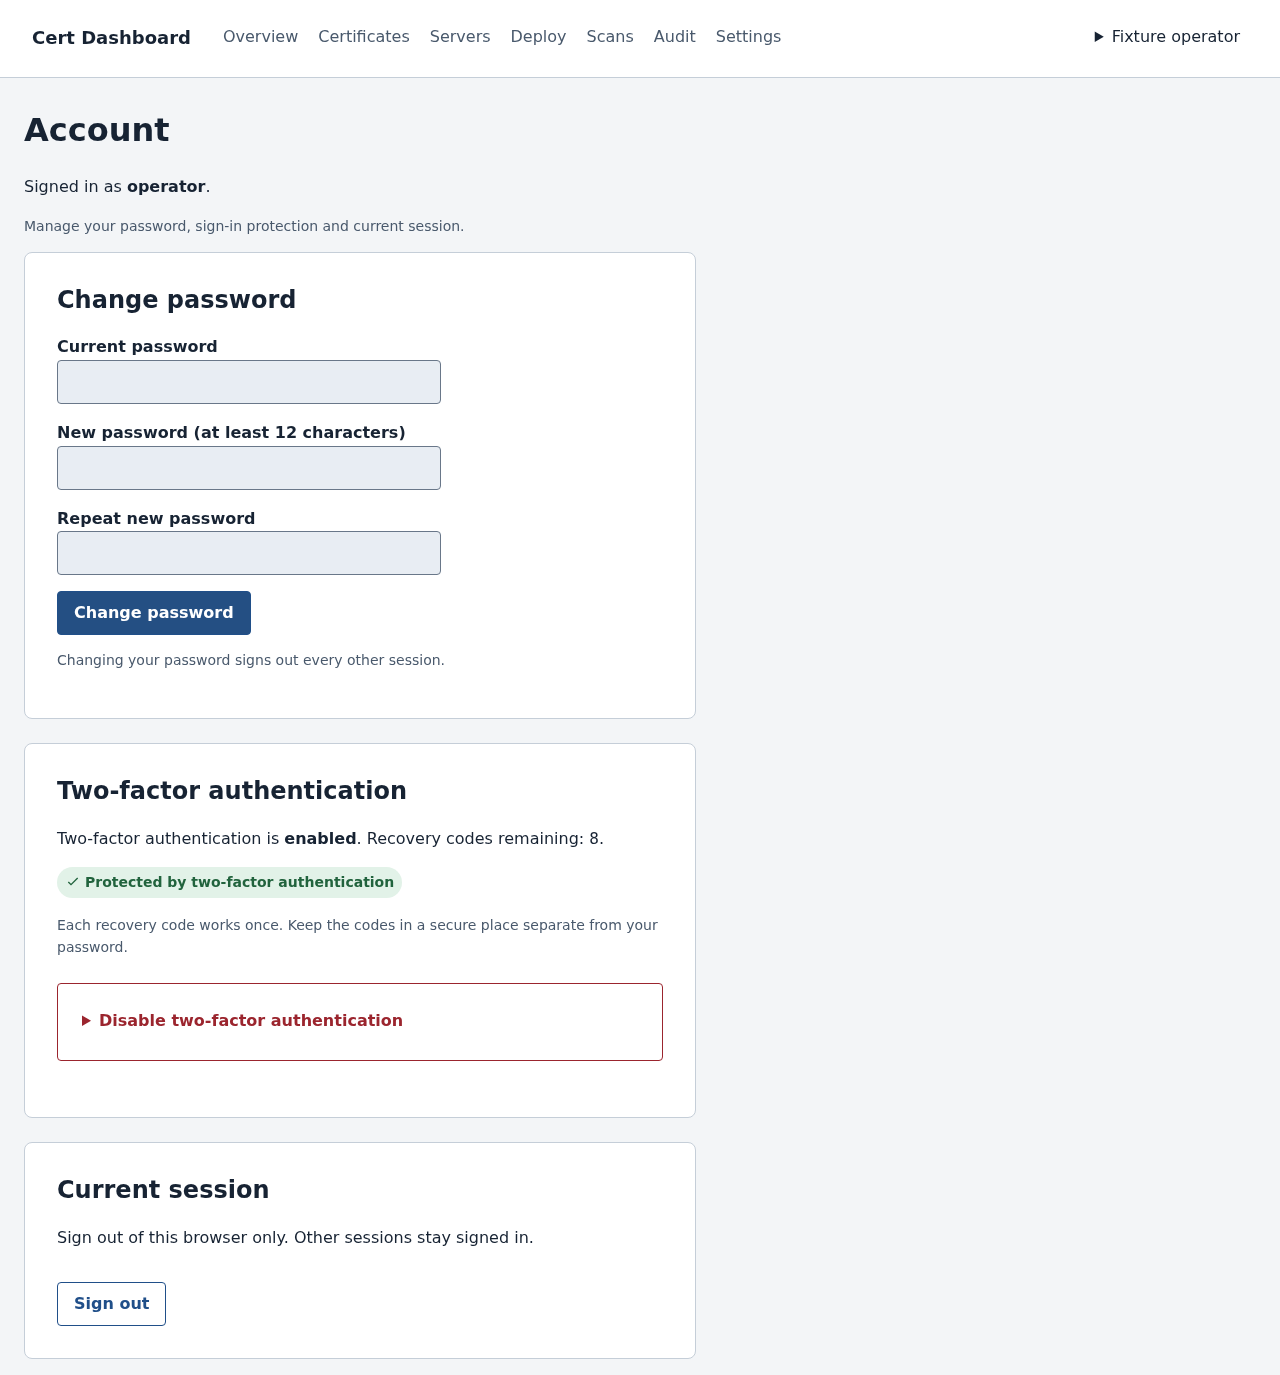
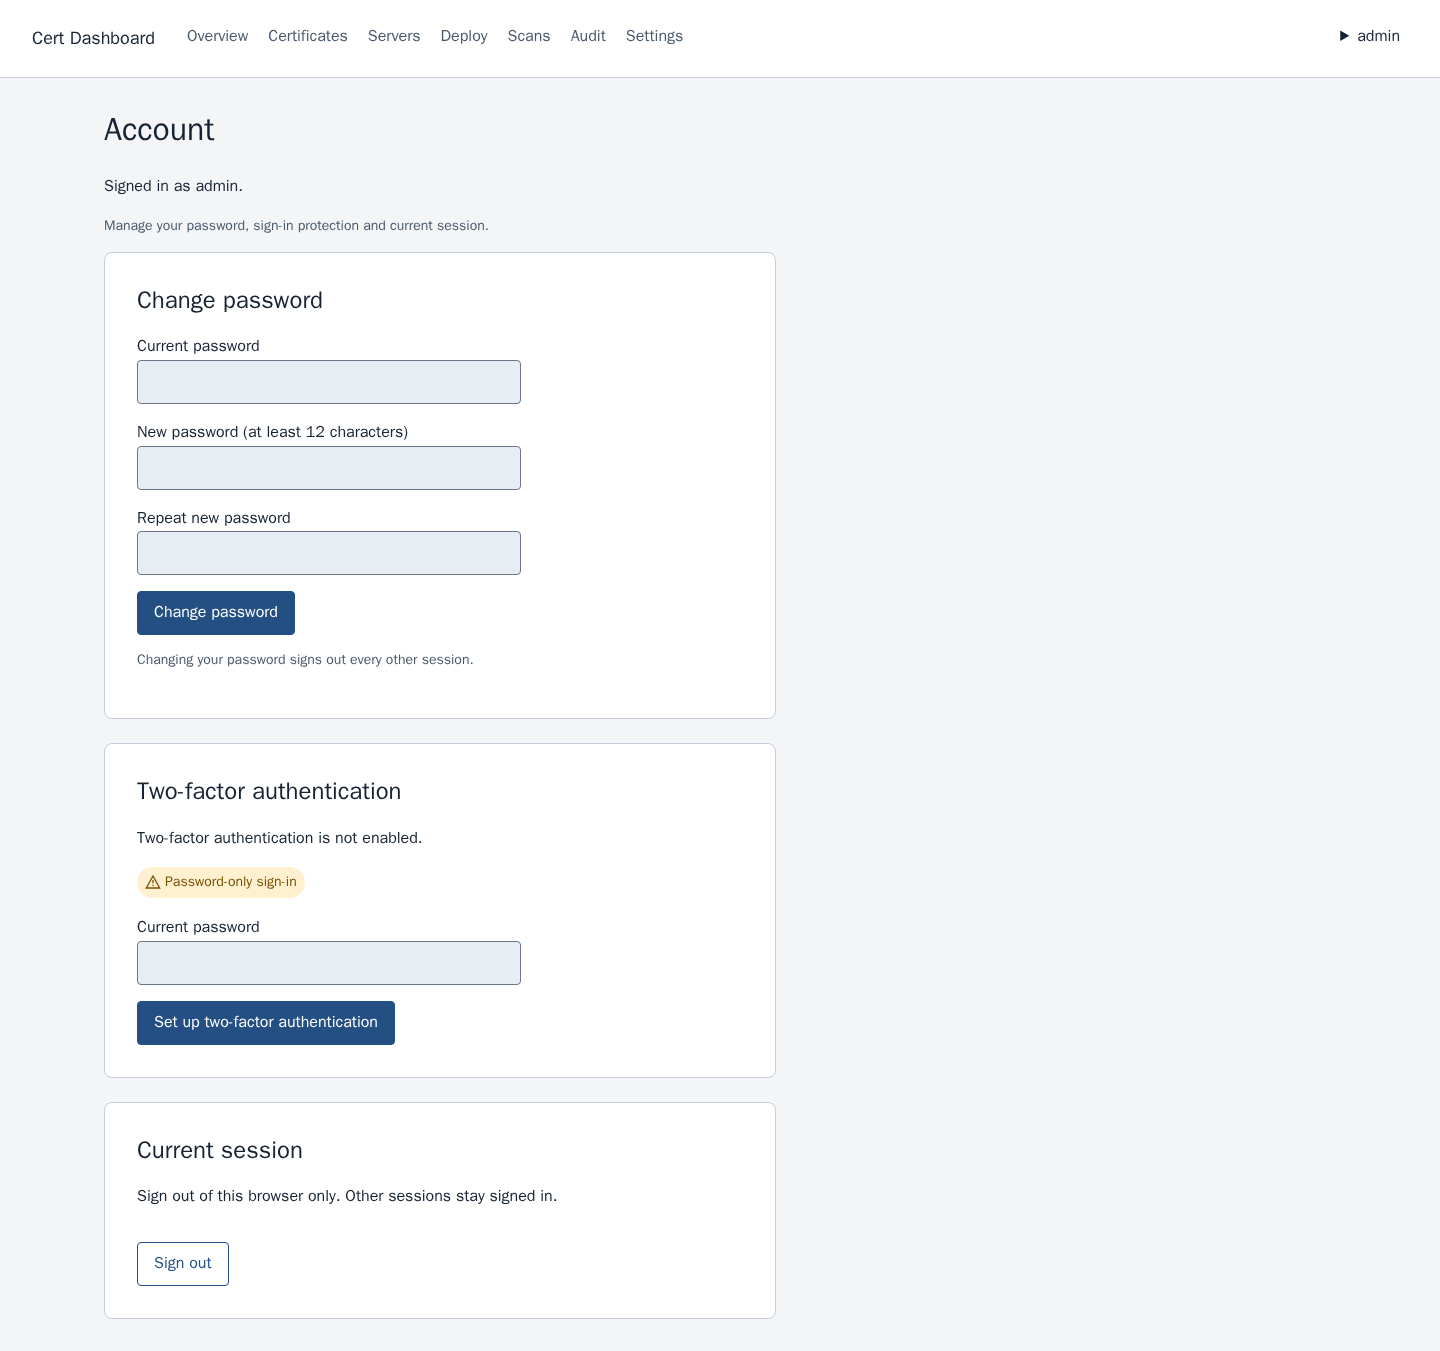
docs: use captures from the running instance in the README
* docs: use captures from the running instance in the README

* docs: record the README screenshot refresh in the changelog

* docs: correct the scan detail caption in the README

---------

diff --git a/README.md b/README.md
@@ -12,7 +12,7 @@ It is not a CA and signs nothing. There is no ACME/Let's Encrypt flow and no CA 
 never edits nginx or Apache configuration, it does not check OCSP or CRL, and it has no
 high-availability or multi-tenant mode. Every active user is an administrator: v1 has no RBAC.
 
-![Overview page: expiry counters for expired, under 7, under 30 and under 60 days, worker and inventory state, TLS health counters](docs/screenshots/overview.png)
+![Overview page: expiry counters for expired, under 7, under 30 and under 60 days plus total active, worker state and last heartbeat, TLS health counters including one mismatch, and the recent jobs table](docs/screenshots/overview.png)
 
 **What you get**
 
@@ -52,9 +52,9 @@ a supplied key is encrypted before it is stored.
   JSON; the detail page adds chain status, key presence and public fingerprint, lineage, audit rows,
   the endpoints panel and the deploy panel.
 
-![Certificate list: filters, status badges with days remaining, key and binding columns](docs/screenshots/certificate-list.png)
+![Certificate list: filters, five imported certificates with expiry badges from twelve days expired to 399 days left, and the key and binding columns](docs/screenshots/certificate-list.png)
 
-![Certificate detail: expiring and incomplete-chain badges, SANs, issuer, fingerprint and download actions](docs/screenshots/certificate-detail.png)
+![Certificate detail: a valid certificate with 199 days left, SANs, subject, issuer, fingerprint and download actions, and the validation block that reports an incomplete chain, names the missing issuer and explains that the cached status is refreshed by the next trust re-check](docs/screenshots/certificate-detail.png)
 
 ![Import screen: upload form with optional chain and key, and the pull-from-host-and-port form](docs/screenshots/certificate-import.png)
 
@@ -94,7 +94,9 @@ adds endpoints from bindings; you can also add them by hand.
 - Observed certificates are never imported, matched into inventory or trusted. `chain_status` changes
   only through an explicit trust recheck, which runs daily and after every trust-anchor change.
 
-![Scan detail: a mismatch finding with the expected certificate beside the certificate the endpoint actually serves](docs/screenshots/scan-mismatch.png)
+![Scans page: the add-endpoint form, filters, and the endpoint list with expected and observed certificate, expiry, mismatch status and last check per row](docs/screenshots/scan-list.png)
+
+![Scan detail: a mismatch finding with the expected and observed SHA-256 fingerprints side by side, the chain length and TLS version, likely actions, and the endpoint history](docs/screenshots/scan-detail.png)
 
 ## Renewal
 
@@ -159,10 +161,10 @@ never reloads a service.
   rows share the transaction of the change they describe. The browser filters by actor, action prefix,
   target, time and IP, and exports the newest 5,000 rows as JSON metadata.
 
-![Account page: password change, enabled two-factor authentication with recovery codes, and the current session](docs/screenshots/account-mfa.png)
+![Account page: password change, two-factor authentication offered but not enabled in this capture, and the current session](docs/screenshots/account-mfa.png)
 
-*The data in these images is synthetic: they are renders of the repository's own preview fixtures
-(`docs/ui/previews/`), not captures of a real inventory.*
+*Screenshots are captures of a running instance populated with synthetic data, except the deploy,
+renewal and alert-settings images, which are renders of the same templates with fixture data.*
 
 ## Security model
 
@@ -285,7 +287,7 @@ as `settings.update` with the before and after values.
   `"worker": "stale"`, the container turns unhealthy and Settings → Status lists `worker_stale`.
   `/health/live` and `/health/ready` cover the web process and the database.
 
-![Settings status: worker heartbeat and state, queue counts, SMTP delivery history, keyring versions and database size](docs/screenshots/settings-status.png)
+![Settings status: worker heartbeat and queue counts, SMTP delivery failures, keyring versions and database size, the warnings for settings that are still missing, and the last scheduled job runs](docs/screenshots/settings-status.png)
 
 ## Architecture
 
@@ -332,5 +334,4 @@ reusing the code.
 
 Status: the v1 scope of the spec is implemented. Plans 1–3 are merged (inventory and renewal, TLS
 scanning and alerts, discovery and deployment) and the interface redesign merged in PRs #70–#75. The
-limits stated above are the ones a reader will hit: manual CA only, nginx and Apache over SSH only,
-single host, no RBAC, no OCSP or CRL, LDAP reserved but not implemented.
+limits stated above are the ones a reader will hit.

diff --git a/CHANGELOG.md b/CHANGELOG.md
@@ -228,6 +228,9 @@ with the pull request that delivered each group of changes.
 
 - `README.md` rewritten around the product, the interface and the operator path, with screenshots
   rendered from `docs/ui/previews/` and stored under `docs/screenshots/` (PR #76).
+- `README.md` screenshots are captures of a running instance populated with synthetic data through the
+  application's own endpoints; the deploy, renewal and alert-settings images remain renders of the same
+  templates with fixture data (PR #77).
 - **Operator decisions D1–D3 (2026-10-25) are recorded and the spec is corrected.** D1: certificate
   chain roles are decided per file by signature verification, never by position or DN equality, so a
   same-CA RSA+ECDSA pair is two bindings; D2: key identity is the SHA-256 of the DER
